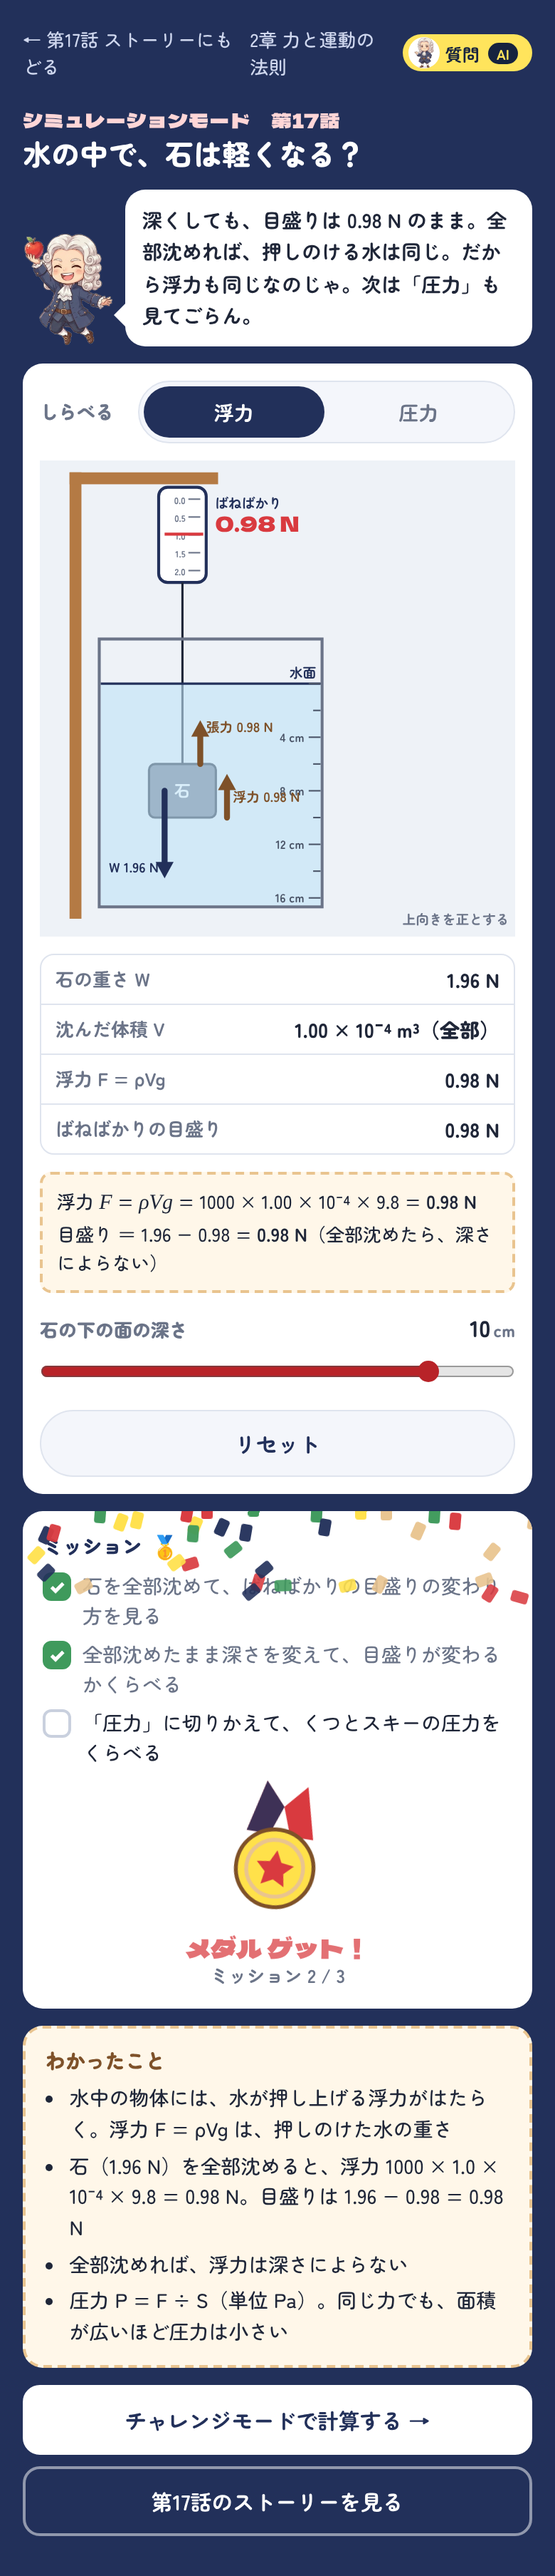
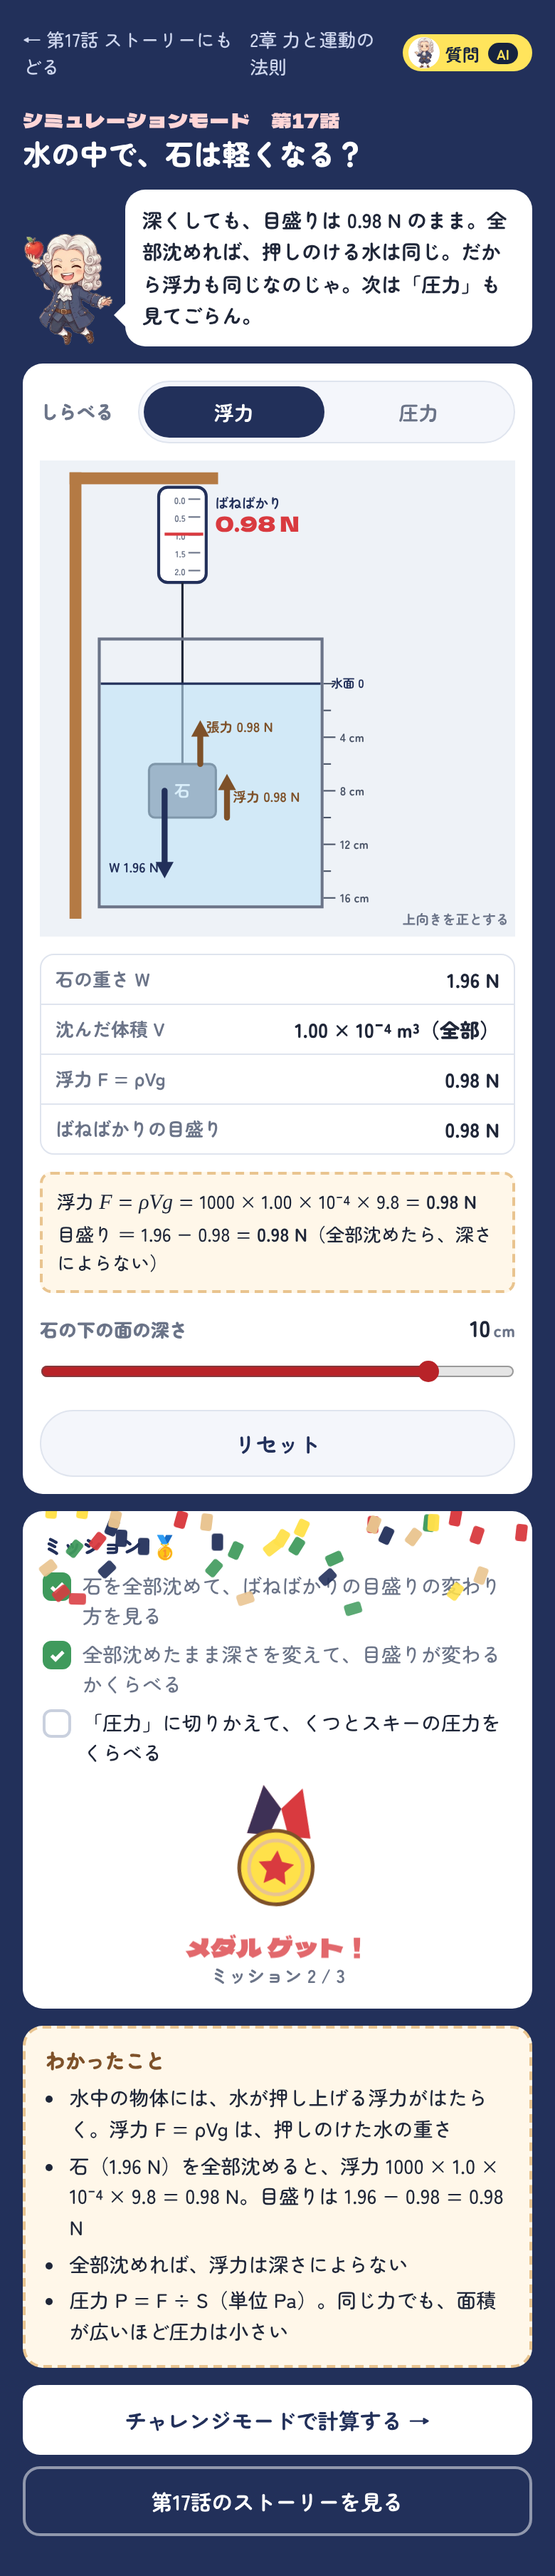
T-12: 2章のシミュ9本（第9〜17話）、シミュ一覧に2章、メダルに登録
Claude-Session: https://claude.ai/code/session_011omp4Mg4wi1i7SftFg17Rj

diff --git a/sim/friction.html b/sim/friction.html
@@ -280,27 +280,27 @@ function draw(){
   const off = ((x * PXM) % 40 + 40) % 40;
   for (let k = -1; k < 10; k++) el('line', { x1: k * 40 - off, x2: k * 40 - off, y1: 118, y2: 126, stroke: '#7e5129', 'stroke-width': 2 }, svg);
   el('rect', { x: 0, y: 128, width: 320, height: 4, fill: '#7e5129' }, svg);
-  txt(svg, 160, 150, '右向きを正とする', 10, '#6b7488');
+  txt(svg, 4, 176, '右向きを正とする', 9, '#6b7488', 'start');
   // 本
-  const bx = 128, by = 82, bw = 62, bh = 34, cx = bx + bw / 2, cy = by + bh / 2;
+  const bx = 120, by = 72, bw = 80, bh = 44, cx = bx + bw / 2, cy = by + bh / 2;
   el('rect', { x: bx, y: by, width: bw, height: bh, rx: 3, fill: '#22305a' }, svg);
   el('rect', { x: bx + 4, y: by + 4, width: bw - 8, height: bh - 8, rx: 2, fill: 'none', stroke: '#ffe14a', 'stroke-width': 1.2 }, svg);
-  txt(svg, cx, by + 21, '本 2.0 kg', 9, '#fff');
+  txt(svg, cx, by + 14, '本 2.0 kg', 9, '#fff');
   // 重力 W（紺）・垂直抗力 N（木）は半分の長さで
-  arrow(svg, cx - 12, cy, cx - 12, cy + N * KF * 0.5, '#1f2638', 3);
-  txt(svg, cx - 16, cy + N * KF * 0.5 - 2, 'W 19.6 N', 9, '#1f2638', 'end');
-  arrow(svg, cx + 12, by + bh, cx + 12, by + bh - N * KF * 0.5, '#7e5129', 3);
-  txt(svg, cx + 16, by - 8, 'N 19.6 N', 9, '#7e5129', 'start');
+  arrow(svg, cx + 8, cy, cx + 8, cy + N * KF * 0.5, '#1f2638', 3);
+  txt(svg, cx + 13, cy + N * KF * 0.5 + 14, 'W 19.6 N', 9, '#1f2638', 'start');
+  arrow(svg, cx + 26, by + bh, cx + 26, by + bh - N * KF * 0.5, '#7e5129', 3);
+  txt(svg, bx + bw + 4, by + bh - N * KF * 0.5 + 8, 'N 19.6 N', 9, '#7e5129', 'start');
   txt(svg, 316, 176, '※ W と N の矢印は半分の長さ', 8, '#6b7488', 'end');
   // 押す力 F（赤）・まさつ力 f（木）
   if (F > 0){
     arrow(svg, bx - 4 - F * KF, cy, bx - 4, cy, '#d93a3f', 4);
-    txt(svg, bx - 6 - F * KF / 2, cy - 8, 'F ' + F.toFixed(1) + ' N', 10, '#d93a3f');
+    txt(svg, bx - 6, cy - 10, 'F ' + F.toFixed(1) + ' N', 10, '#d93a3f', 'end');
   }
   const f = fric();
   if (f > 0){
-    arrow(svg, cx, by + bh + 4, cx - f * KF, by + bh + 4, '#b47a44', 4);
-    txt(svg, cx - f * KF / 2, by + bh + 18, 'f ' + f1(f) + ' N', 10, '#b47a44');
+    arrow(svg, cx, by + bh + 2, cx - f * KF, by + bh + 2, '#b47a44', 4);
+    txt(svg, cx - f * KF - 4, by + bh + 22, 'f ' + f1(f) + ' N', 10, '#7e5129', 'end');
   }
   txt(svg, 160, 22, sliding ? 'すべっている！（動摩擦力）' : F > 0 ? '止まっている（静止摩擦力）' : '止まっている', 13, sliding ? '#d93a3f' : '#22305a');
 

diff --git a/sim/fall-force.html b/sim/fall-force.html
@@ -144,7 +144,7 @@ body{
 
   <div class="bench">
     <div class="view">
-      <svg id="svg" viewBox="0 0 320 340" role="img" aria-label="筒の中を落ちる鉄球と羽根、重力と加速度の矢印、v-tグラフ"></svg>
+      <svg id="svg" viewBox="0 0 320 302" role="img" aria-label="筒の中を落ちる鉄球と羽根、重力と加速度の矢印、v-tグラフ"></svg>
     </div>
 
     <div class="time-row">
@@ -283,7 +283,7 @@ const sgn = (x, d) => (x > 1e-9 ? '+' : x < -1e-9 ? '−' : '') + Math.abs(x).to
 
 const g = 9.8, H = 1.225, VT = 0.6, MF = 0.0050;   // 筒の高さ、羽根の終端速度・質量
 const TOP = 40, BOT = 250, PXM = (BOT - TOP) / H;  // 筒の上下（px）と 1 m の px
-const BX = 54, FX = 118;                           // 鉄球と羽根の x
+const BX = 66, FX = 124;                           // 鉄球と羽根の x
 const KF = 2.0, KA = 4.0;                          // 1 N の矢印 px、1 m/s² の矢印 px
 const GR = { x0: 190, x1: 308, yt: 40, yb: 250, tmax: 2.5, vmax: 5 };   // v-tグラフ
 const svg = $('svg');
@@ -313,7 +313,7 @@ function drawFeather(x, y){
 
 function draw(t){
   svg.innerHTML = '';
-  el('rect', { width: 320, height: 340, fill: '#eef2f7' }, svg);
+  el('rect', { width: 320, height: 302, fill: '#eef2f7' }, svg);
   // 筒
   el('rect', { x: 18, y: TOP - 18, width: 138, height: BOT - TOP + 24, rx: 10, fill: air ? '#e9f6fc' : '#fff', stroke: '#22305a', 'stroke-width': 2 }, svg);
   txt(svg, 87, TOP - 4, air ? '空気あり' : '真空（空気なし）', 11, '#22305a');

diff --git a/sim/action-reaction.html b/sim/action-reaction.html
@@ -343,7 +343,8 @@ function show(t){
   $('vROut').textContent = (vR < 0 ? '−' : '') + fa(Math.abs(vR)) + ' m/s';
   if (t === 0){ $('formula').innerHTML = '押すと、2つの力の矢印が出るよ。押し返す力は何 N かな？'; return; }
   $('formula').innerHTML = '作用と反作用：どちらも <b>' + F + ' N</b>。向きは反対で、別々の人にはたらく。' +
-    (t >= TP ? '<br>押している 0.50 秒のあいだの加速度は <span class="m">a</span> = <span class="m">F</span> ÷ <span class="m">m</span>（第14話）<br>ニュートンくん：' + F + ' ÷ ' + mN + ' = ' + fa(aN()) + ' m/s² → ' + fa(aN()) + ' × 0.50 = <b>+' + fa(aN() * TP) + ' m/s</b><br>リカ：' + F + ' ÷ ' + mR + ' = ' + fa(-aR()) + ' m/s² → ' + fa(-aR()) + ' × 0.50 = <b>−' + fa(-aR() * TP) + ' m/s</b>' : '');
+    (t >= TP ? '<br>はなれる速さ：ニュートンくん <b>+' + fa(aN() * TP) + ' m/s</b>、リカ <b>−' + fa(-aR() * TP) + ' m/s</b>' +
+      (mR === mN ? '（質量が同じなら、同じ速さ）' : '<br>力は同じなのに、軽いほうが速い。そのわけは第14話のお楽しみ！') : '');
 }
 
 function talk(t){

diff --git a/sim/buoyancy.html b/sim/buoyancy.html
@@ -315,11 +315,11 @@ function drawBuoy(){
   txt(svg, SX, ty + SH / 2 + 4, '石', 11, '#fff');
   el('rect', { x: 41, y: SURF, width: 148, height: 299 - SURF, fill: '#bfe2f6', opacity: .6 }, svg);
   el('line', { x1: 41, x2: 189, y1: SURF, y2: SURF, stroke: '#22305a', 'stroke-width': 1.5 }, svg);
-  txt(svg, 186, SURF - 4, '水面', 9, '#22305a', 'end');
+  txt(svg, 196, SURF + 3, '水面 0', 8, '#22305a', 'start');
   // 深さのものさし
   for (let c = 0; c <= 16; c += 2){
-    el('line', { x1: 189, x2: c % 4 ? 184 : 181, y1: SURF + c * CM, y2: SURF + c * CM, stroke: '#4b5568', 'stroke-width': 1 }, svg);
-    if (c % 4 === 0 && c > 0) txt(svg, 178, SURF + c * CM + 3, c + ' cm', 8, '#4b5568', 'end');
+    el('line', { x1: 191, x2: c % 4 ? 196 : 199, y1: SURF + c * CM, y2: SURF + c * CM, stroke: '#4b5568', 'stroke-width': 1 }, svg);
+    if (c % 4 === 0 && c > 0) txt(svg, 202, SURF + c * CM + 3, c + ' cm', 8, '#4b5568', 'start');
   }
   // 力の矢印（石にはたらく力。上向きを正とする）
   const cy = ty + SH / 2;

diff --git a/docs/reports/T-12.md b/docs/reports/T-12.md
@@ -1,0 +1,76 @@
+# T-12　2章のシミュ実装
+
+## 1. やったこと
+
+- `docs/story-ch2.md` の設計表のシミュ案と脚本どおりに、**2章のシミュを9本**作った。1章と同じ作り（ヘッダー → 見出し → ニュートンくん → 実験台 → ミッション3こ → わかったこと → リンク）。最初の値で脚本の数値が出る。
+
+| 話 | ファイル | 何をする | ドリル |
+| --- | --- | --- | --- |
+| 第9話 | `sim/force-arrows.html` | かごを机に置く・ひも・ばねで支えて、重力と支える力の矢印を見る。「支えをはずす」も | 2-2（2-6 は T-13） |
+| 第10話 | `sim/force-composition.html` | 2つの力の向きと大きさを変えて合成（平行四辺形）。分解にも切りかえ | 2-1 |
+| 第11話 | `sim/force-balance.html` | 綱引き（200 N ずつ）と、植木鉢を2本のひもでつるす（T₂ = 49 − T₁） | 2-2 |
+| 第12話 | `sim/inertia.html` | 2.0 m/s で手をはなすそり。床・じゅうたん・氷で v-tグラフと止まるまでの距離 | 準備中 |
+| 第13話 | `sim/action-reaction.html` | スケートで押し合い。2つの力はいつも同じ大きさ・反対向き | 準備中（2-7 は T-13） |
+| 第14話 | `sim/motion-equation.html` | 台車を F で押す。F と m を変えて a、v-tグラフ、ma = F | 2-3 |
+| 第15話 | `sim/fall-force.html` | 質量を変えて落とす。W = mg は大きくなるが a = g。空気ありで羽根は速さ一定に | 2-3 |
+| 第16話 | `sim/friction.html` | 本を押す力を強くして、静止摩擦 → 最大摩擦力 9.8 N → 動摩擦 4.9 N をグラフで | 2-4 |
+| 第17話 | `sim/buoyancy.html` | 石をばねばかりで水に沈める（浮力 0.98 N、深さによらない）。「圧力」に切りかえて、くつとスキー | 2-5 |
+
+- 力の矢印の色は9本でそろえた：重力＝紺、人が加える力＝赤、支える力（垂直抗力・張力・弾性力・浮力）＝木、まさつ力＝うすい木、合力＝赤の点線。色は今の配色だけ（1章のシミュにない色は使っていない）。
+- `sim/index.html` に「2章　力と運動の法則」の見出しと9本を、話の順に足した。
+- ミッションのメダルにもつないだ（`CLAUDE.md` の手順どおり。`sim/medal.js` の `SIMS` に9行足したので、シミュ一覧とマイページにも出る）。
+
+## 2. スクショ（幅 390px、`docs/reports/T-12/`）
+
+`force-arrows.png` `force-composition.png` `force-balance.png` `inertia.png` `action-reaction.png` `motion-equation.png` `fall-force.png` `friction.png` `buoyancy.png` `buoyancy-pressure.png`（圧力モード）、`sim-index.png`（シミュ一覧）
+
+## 3. ぱかちんが決めること
+
+1. **ストーリーへのリンク**：「← 第◯話 ストーリーにもどる」は `story/?ep=09` などにつないである。T-11（2章のストーリー）が入るまでは、プレイヤーが「このお話はまだ準備中です」と出す。
+2. **第12話のまさつ**：まさつ（μ）は第16話なので、「1秒に 0.50 m/s ずつ遅くなる（床）」「1.0 m/s ずつ（じゅうたん）」と、遅くなり方で表した。止まるまで 4.0 m・2.0 m。まさつ力の矢印には N の数をつけていない。
+3. **第13話**：押している時間（0.50 s）は脚本にないので決めた（リカ 50 kg → −1.0 m/s、ニュートンくん 25 kg → +2.0 m/s）。脚本の「そのわけは第14話のお楽しみ」に合わせて、a = F ÷ m の計算は出さず、速さだけ出す。
+4. **第14話**：記録の点は 0.5 秒ごと（0.1 秒ごとだと点がつまって見えない）。大きな力・小さな質量だと画面からはみ出すので「はみ出し」と出す。
+5. **第15話**：設計表は「freefall.html を広げる」だったが、公開中の自由落下シミュはさわらず、新しいファイルにした。羽根の質量（0.0050 kg）と終端速度（0.6 m/s）は決めた値。終端速度は形（グラフが平らになる）だけで、計算はしない。羽根の重力 0.049 N の矢印は小さすぎるので「小さくて見えない」と書いた。
+6. **第16話**：W と N の矢印は画面に入るように半分の長さ（画面に注意書き）。
+7. **第17話**：石の形（5 cm × 5 cm × 4 cm = 100 cm³）と、深さのスライダー（2 cm きざみ）は決めた値（半分沈めると浮力 0.49 N になる）。圧力モードの雪の沈み方は、圧力に比例した絵だけ（計算ではない）。
+8. **第9話のドリル**：今は 2-2 だけ。2-6（弾性力）は T-13 で足す。第13話の 2-7 も T-13。
+9. **いちばん上の行**：「← 第◯話 ストーリーにもどる」と章の名前が、390px で2行に折り返す。1章のシミュも同じ（今のつくり）なので、そのままにした。
+   - 選択肢：このまま／全部のシミュで字を少し小さくする（別タスク）
+
+## 4. 計算チェック（python で確かめた）
+
+| 話 | 計算 | 答え |
+| --- | --- | --- |
+| 第9話 | W = mg = 2.0 × 9.8 | 19.6 N |
+| 第9話 | x = W ÷ k = 19.6 ÷ 49 | 0.40 m |
+| 第10話 | √(30² + 40²)（直角） | 50 N |
+| 第10話 | 30 + 40（同じ向き）／30 − 40（反対、東を正） | 70 N／−10 N |
+| 第10話 | 40 × cos60°／40 × sin60° | 20 N／34.6 N |
+| 第11話 | 200 − 200（右を正） | 0 N |
+| 第11話 | T₂ = 49 − 20 | 29 N |
+| 第12話 | じゅうたん：2.0 ÷ 1.0 秒、½ × 2.0 × 2.0 | 2.0 s、2.0 m |
+| 第12話 | 床：2.0 ÷ 0.50 秒、½ × 2.0 × 4.0 | 4.0 s、4.0 m |
+| 第13話 | 100 ÷ 25 × 0.50／100 ÷ 50 × 0.50 | +2.0 m/s／−1.0 m/s |
+| 第14話 | a = 4.0 ÷ 2.0、v = 2.0 × 3.0、x = ½ × 2.0 × 3.0² | 2.0 m/s²、6.0 m/s、9.0 m |
+| 第14話 | 8.0 ÷ 2.0／4.0 ÷ 4.0 | 4.0 m/s²／1.0 m/s² |
+| 第15話 | W = 2.0 × 9.8、a = 19.6 ÷ 2.0 | 19.6 N、9.8 m/s² |
+| 第15話 | 筒 1.225 m を落ちる時間 √(2 × 1.225 ÷ 9.8) | 0.50 s |
+| 第16話 | N = 2.0 × 9.8、最大摩擦力 0.50 × 19.6、動摩擦力 0.25 × 19.6 | 19.6 N、9.8 N、4.9 N |
+| 第16話 | 7.0 N ですべるとき a = (7.0 − 4.9) ÷ 2.0 | 1.05 m/s² |
+| 第17話 | W = 0.20 × 9.8、浮力 1000 × 1.0 × 10⁻⁴ × 9.8、目盛り 1.96 − 0.98 | 1.96 N、0.98 N、0.98 N |
+| 第17話 | 半分沈める：浮力 0.49 N、目盛り 1.96 − 0.49 | 1.47 N |
+| 第17話 | 圧力 490 ÷ 0.020／490 ÷ 0.25 | 24500 Pa／1960 Pa |
+
+確かめたこと（Playwright、390px）：
+
+| 確かめたこと | 結果 |
+| --- | --- |
+| 9本とも、実際のクリック・スライダー操作でミッション3こを全部達成して、メダル・トロフィーの箱が出る | 9本とも ✓ |
+| 「動きを減らす」設定でも動く | 9本とも ✓ |
+| リンク（ストーリー・ドリル）の行き先がある | 全部 ✓ |
+| 横はみ出し・コンソールのエラー | なし |
+| シミュ一覧（1章8本＋2章9本） | ✓ |
+
+## 5. さわっていないもの
+
+1章のシミュ（自由落下シミュもそのまま）、ストーリー、ドリル（`physics/`）、トップ画面。`sim/medal.js` は `SIMS` に9行足しただけ。ドリルから「第◯話のシミュにもどる」を出す登録（`SIM_EP`）は `physics/app.js` なので、T-13 でやる。tasks.md は T-12 の行を `[x]` にした。

diff --git a/docs/tasks.md b/docs/tasks.md
@@ -131,7 +131,7 @@ Claude Code にこう送るだけ：
   - `story/list.html` に2章の見出しを足す
   - さわる場所：`story/` の新しいファイル、`story/list.html`
 
-- [ ] **T-12　2章のシミュ実装** 🌙
+- [x] **T-12　2章のシミュ実装** 🌙
   - T-10 の設計表のシミュ案を作る。1章のシミュと同じ作り
   - `sim/index.html` に「2章」の見出しを足す
   - さわる場所：`sim/` の新しいファイル、`sim/index.html`
